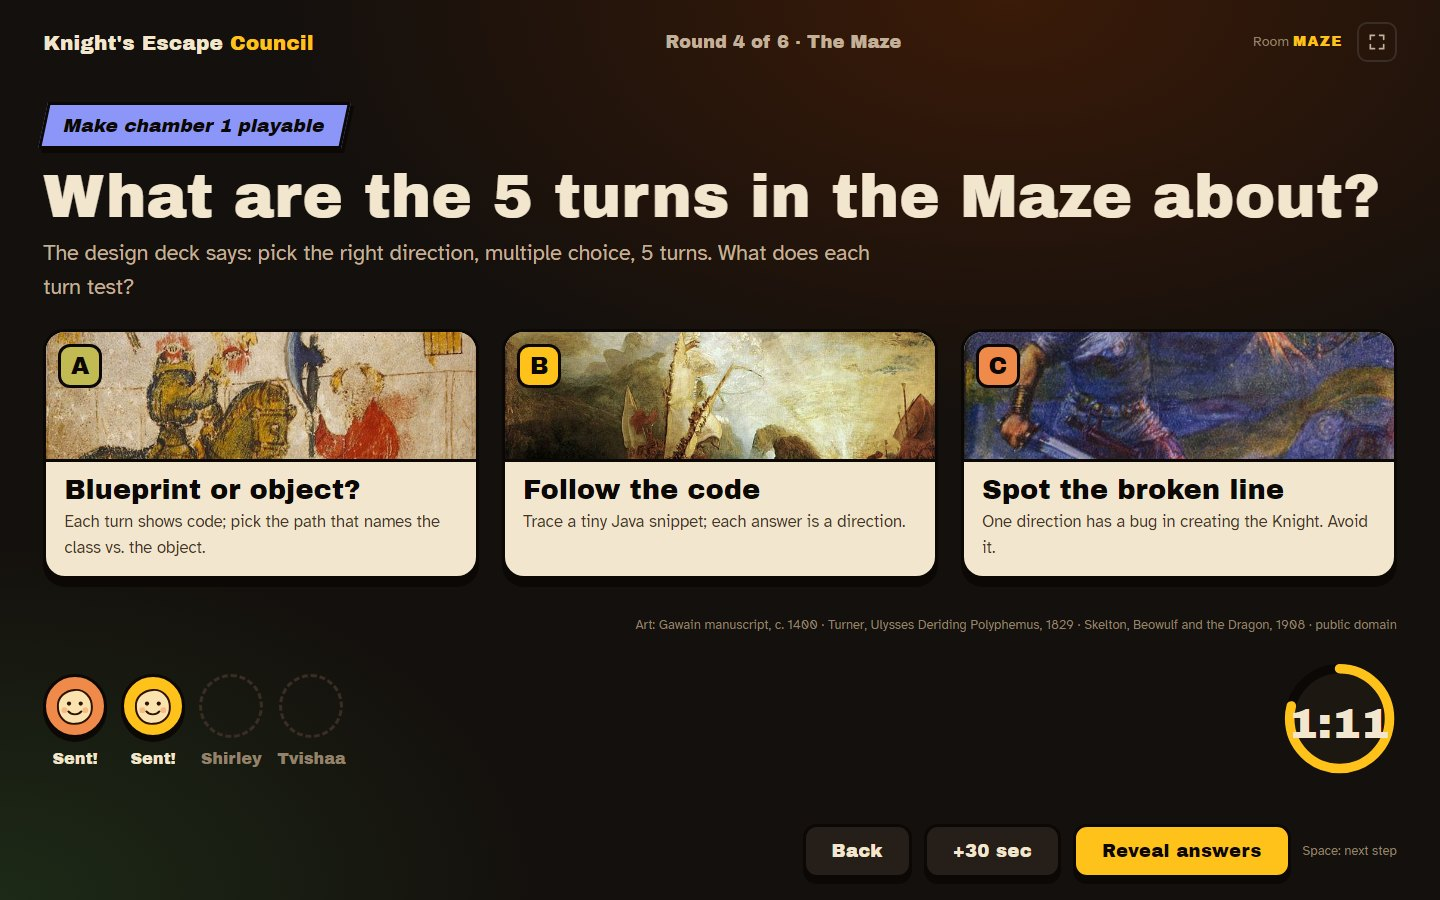
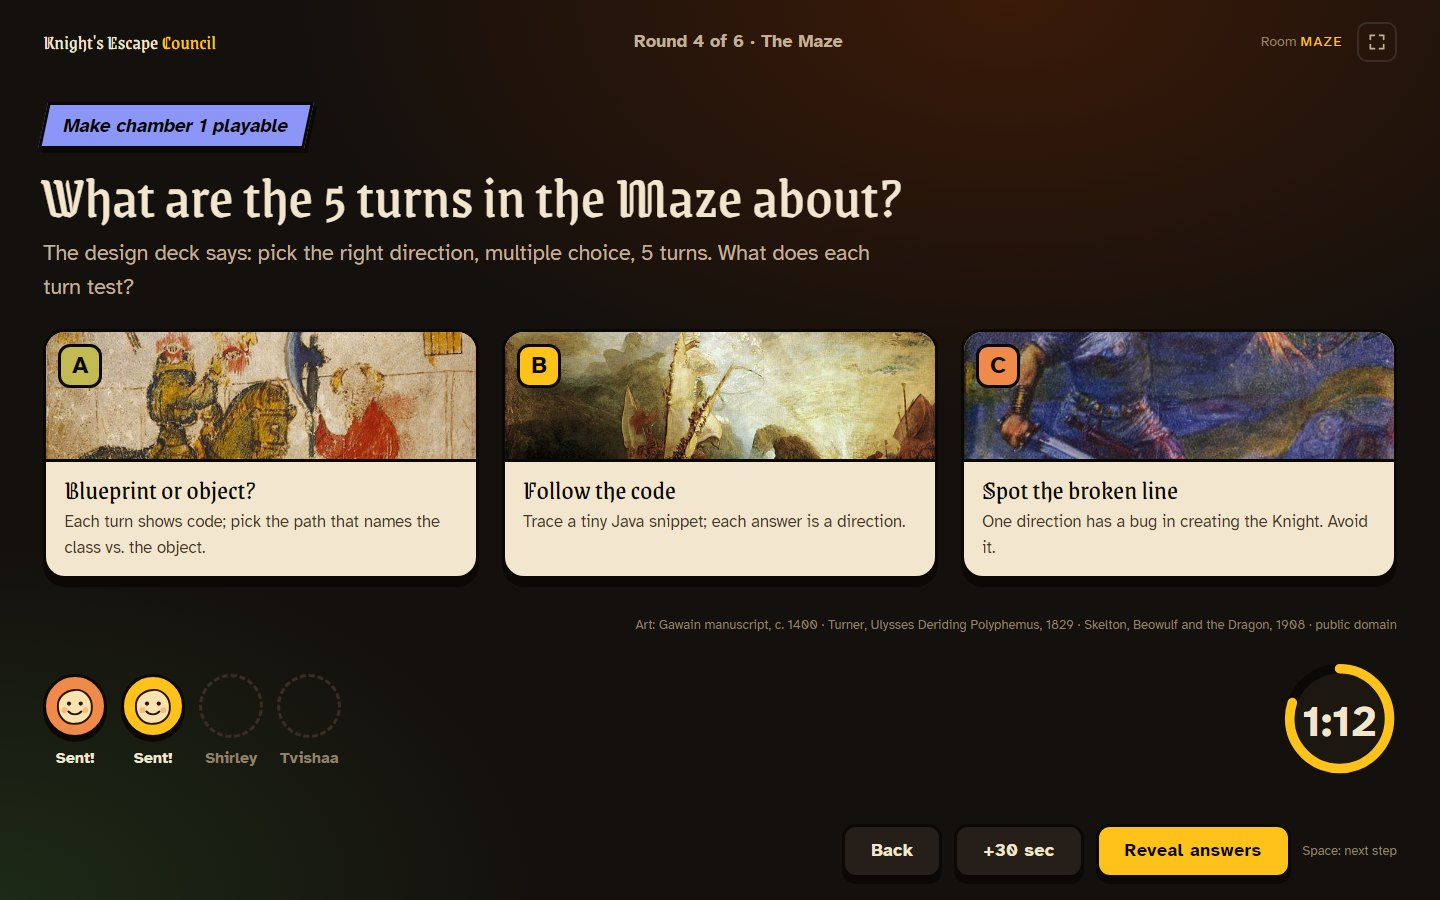
Readable titles (Grenze Gotisch), Atkinson for labels and numbers, floating Ask for help, Ask in VS Code, PIN paste

diff --git a/docs/party/index.html b/docs/party/index.html
@@ -1,4 +1,4 @@
-<!doctype html><html lang="en"><head><meta charset="utf-8"><meta name="viewport" content="width=device-width,initial-scale=1,viewport-fit=cover"><link rel="icon" type="image/png" href="../icon-party.png"><link rel="apple-touch-icon" href="../icon-party.png"><style>:root{padding-top:env(safe-area-inset-top,0px);padding-bottom:env(safe-area-inset-bottom,0px)}body{margin:0}img{max-width:100%}[hidden]{display:none!important}</style><link rel="preconnect" href="https://fonts.googleapis.com"><link rel="stylesheet" href="https://fonts.googleapis.com/css2?family=Jacquard+24&display=swap"><style>:root{--display:"Jacquard 24","Atkinson Hyperlegible",serif !important;--label:"Atkinson Hyperlegible",sans-serif !important;--label-weight:700 !important;--num:"Atkinson Hyperlegible",sans-serif !important;--num-weight:700 !important}</style><script src="../config.js"></script><script>window.P9_PARTY_DEFAULT="play"</script><script>// Runs the board outside claude.ai. The board talks to `window.claude.use(name)`;
+<!doctype html><html lang="en"><head><meta charset="utf-8"><meta name="viewport" content="width=device-width,initial-scale=1,viewport-fit=cover"><link rel="icon" type="image/png" href="../icon-party.png"><link rel="apple-touch-icon" href="../icon-party.png"><style>:root{padding-top:env(safe-area-inset-top,0px);padding-bottom:env(safe-area-inset-bottom,0px)}body{margin:0}img{max-width:100%}[hidden]{display:none!important}</style><link rel="preconnect" href="https://fonts.googleapis.com"><link rel="stylesheet" href="https://fonts.googleapis.com/css2?family=Grenze+Gotisch:wght@400;600&display=swap"><style>:root{--display:"Grenze Gotisch","Atkinson Hyperlegible",serif !important;--label:"Atkinson Hyperlegible",sans-serif !important;--label-weight:700 !important;--num:"Atkinson Hyperlegible",sans-serif !important;--num-weight:700 !important}</style><script src="../config.js"></script><script>window.P9_PARTY_DEFAULT="play"</script><script>// Runs the board outside claude.ai. The board talks to `window.claude.use(name)`;
 // this file answers those calls with Firebase (shared, no sign-in) or a demo store (one computer).
 (() => {
   const firebaseConfig = window.P9_FIREBASE;
@@ -325,6 +325,7 @@ a { color: var(--parch); text-underline-offset: 3px; }
 .helper { display: grid; gap: var(--s2); }
 /* Floating: a button bottom-right on every screen opens the helper as a panel above it */
 .helper-top { display: flex; align-items: start; justify-content: space-between; gap: var(--s2); }
+.helper-top h2 { font-family: var(--display); font-weight: 400; font-size: 23px; line-height: 1.15; letter-spacing: .035em; }
 .help-x { flex: none; width: 36px; height: 36px; display: grid; place-items: center; border: 1px solid var(--plank); border-radius: 10px; background: var(--wood-2); color: var(--parch-2); }
 .help-fab { position: fixed; right: 20px; bottom: calc(20px + env(safe-area-inset-bottom, 0px)); z-index: 44; display: inline-flex; align-items: center; gap: 8px; height: 52px; padding: 0 20px 0 16px; border-radius: 999px; border: 1px solid var(--torch-2); background: linear-gradient(180deg, #ffcd45, var(--torch)); color: var(--on-torch); font-weight: 700; font-size: 15.5px; box-shadow: var(--shadow-lift), 0 12px 28px -10px rgba(10,6,3,.7); }
 .help-fab[aria-expanded="true"] { opacity: 0; pointer-events: none; transform: scale(.96); }
@@ -1690,7 +1691,7 @@ window.P9_STARTER = {"rooms.js": "// ALL GAME CONTENT LIVES HERE. Edit this file
     for (const d of digits) await pressKey(d);
   }
   document.addEventListener("paste", (e) => {
-    if (!pending || e.target.closest("input,textarea")) return;
+    if (!pending || (e.target.closest && e.target.closest("input,textarea"))) return;
     e.preventDefault(); typePin(e.clipboardData && e.clipboardData.getData("text"));
   });
 

diff --git a/docs/index.html b/docs/index.html
@@ -1,4 +1,4 @@
-<!doctype html><html lang="en"><head><meta charset="utf-8"><meta name="viewport" content="width=device-width,initial-scale=1,viewport-fit=cover"><link rel="icon" type="image/png" href="icon-board.png"><link rel="apple-touch-icon" href="icon-board.png"><style>:root{padding-top:env(safe-area-inset-top,0px);padding-bottom:env(safe-area-inset-bottom,0px)}body{margin:0}img{max-width:100%}[hidden]{display:none!important}</style><link rel="preconnect" href="https://fonts.googleapis.com"><link rel="stylesheet" href="https://fonts.googleapis.com/css2?family=Jacquard+24&display=swap"><style>:root{--display:"Jacquard 24","Atkinson Hyperlegible",serif !important;--label:"Atkinson Hyperlegible",sans-serif !important;--label-weight:700 !important;--num:"Atkinson Hyperlegible",sans-serif !important;--num-weight:700 !important}</style><script src="config.js"></script><script>// Runs the board outside claude.ai. The board talks to `window.claude.use(name)`;
+<!doctype html><html lang="en"><head><meta charset="utf-8"><meta name="viewport" content="width=device-width,initial-scale=1,viewport-fit=cover"><link rel="icon" type="image/png" href="icon-board.png"><link rel="apple-touch-icon" href="icon-board.png"><style>:root{padding-top:env(safe-area-inset-top,0px);padding-bottom:env(safe-area-inset-bottom,0px)}body{margin:0}img{max-width:100%}[hidden]{display:none!important}</style><link rel="preconnect" href="https://fonts.googleapis.com"><link rel="stylesheet" href="https://fonts.googleapis.com/css2?family=Grenze+Gotisch:wght@400;600&display=swap"><style>:root{--display:"Grenze Gotisch","Atkinson Hyperlegible",serif !important;--label:"Atkinson Hyperlegible",sans-serif !important;--label-weight:700 !important;--num:"Atkinson Hyperlegible",sans-serif !important;--num-weight:700 !important}</style><script src="config.js"></script><script>// Runs the board outside claude.ai. The board talks to `window.claude.use(name)`;
 // this file answers those calls with Firebase (shared, no sign-in) or a demo store (one computer).
 (() => {
   const firebaseConfig = window.P9_FIREBASE;
@@ -325,6 +325,7 @@ a { color: var(--parch); text-underline-offset: 3px; }
 .helper { display: grid; gap: var(--s2); }
 /* Floating: a button bottom-right on every screen opens the helper as a panel above it */
 .helper-top { display: flex; align-items: start; justify-content: space-between; gap: var(--s2); }
+.helper-top h2 { font-family: var(--display); font-weight: 400; font-size: 23px; line-height: 1.15; letter-spacing: .035em; }
 .help-x { flex: none; width: 36px; height: 36px; display: grid; place-items: center; border: 1px solid var(--plank); border-radius: 10px; background: var(--wood-2); color: var(--parch-2); }
 .help-fab { position: fixed; right: 20px; bottom: calc(20px + env(safe-area-inset-bottom, 0px)); z-index: 44; display: inline-flex; align-items: center; gap: 8px; height: 52px; padding: 0 20px 0 16px; border-radius: 999px; border: 1px solid var(--torch-2); background: linear-gradient(180deg, #ffcd45, var(--torch)); color: var(--on-torch); font-weight: 700; font-size: 15.5px; box-shadow: var(--shadow-lift), 0 12px 28px -10px rgba(10,6,3,.7); }
 .help-fab[aria-expanded="true"] { opacity: 0; pointer-events: none; transform: scale(.96); }
@@ -1690,7 +1691,7 @@ window.P9_STARTER = {"rooms.js": "// ALL GAME CONTENT LIVES HERE. Edit this file
     for (const d of digits) await pressKey(d);
   }
   document.addEventListener("paste", (e) => {
-    if (!pending || e.target.closest("input,textarea")) return;
+    if (!pending || (e.target.closest && e.target.closest("input,textarea"))) return;
     e.preventDefault(); typePin(e.clipboardData && e.clipboardData.getData("text"));
   });
 

diff --git a/board/quest-board.src.html b/board/quest-board.src.html
@@ -240,6 +240,7 @@ a { color: var(--parch); text-underline-offset: 3px; }
 .helper { display: grid; gap: var(--s2); }
 /* Floating: a button bottom-right on every screen opens the helper as a panel above it */
 .helper-top { display: flex; align-items: start; justify-content: space-between; gap: var(--s2); }
+.helper-top h2 { font-family: var(--display); font-weight: 400; font-size: 23px; line-height: 1.15; letter-spacing: .035em; }
 .help-x { flex: none; width: 36px; height: 36px; display: grid; place-items: center; border: 1px solid var(--plank); border-radius: 10px; background: var(--wood-2); color: var(--parch-2); }
 .help-fab { position: fixed; right: 20px; bottom: calc(20px + env(safe-area-inset-bottom, 0px)); z-index: 44; display: inline-flex; align-items: center; gap: 8px; height: 52px; padding: 0 20px 0 16px; border-radius: 999px; border: 1px solid var(--torch-2); background: linear-gradient(180deg, #ffcd45, var(--torch)); color: var(--on-torch); font-weight: 700; font-size: 15.5px; box-shadow: var(--shadow-lift), 0 12px 28px -10px rgba(10,6,3,.7); }
 .help-fab[aria-expanded="true"] { opacity: 0; pointer-events: none; transform: scale(.96); }
@@ -1211,7 +1212,7 @@ window.P9_STARTER = /*@STARTER@*/{};
     for (const d of digits) await pressKey(d);
   }
   document.addEventListener("paste", (e) => {
-    if (!pending || e.target.closest("input,textarea")) return;
+    if (!pending || (e.target.closest && e.target.closest("input,textarea"))) return;
     e.preventDefault(); typePin(e.clipboardData && e.clipboardData.getData("text"));
   });
 

diff --git a/board/build_site.py b/board/build_site.py
@@ -29,9 +29,9 @@ def page(config_src, extra="", icon="icon-board.png", title="Knight's Escape"):
         "body{margin:0}img{max-width:100%}[hidden]{display:none!important}</style>"
         # Open-licensed fonts for the public site (Beanzo is personal-use only)
         '<link rel="preconnect" href="https://fonts.googleapis.com">'
-        '<link rel="stylesheet" href="https://fonts.googleapis.com/css2?family=Jacquard+24&display=swap">'
-        # Jacquard 24 is for titles only: its digits and small sizes are hard to read, so labels and numbers use bold Atkinson
-        '<style>:root{--display:"Jacquard 24","Atkinson Hyperlegible",serif !important;'
+        '<link rel="stylesheet" href="https://fonts.googleapis.com/css2?family=Grenze+Gotisch:wght@400;600&display=swap">'
+        # Grenze Gotisch is for titles only: blackletter digits and small sizes are hard to read, so labels and numbers use bold Atkinson
+        '<style>:root{--display:"Grenze Gotisch","Atkinson Hyperlegible",serif !important;'
         '--label:"Atkinson Hyperlegible",sans-serif !important;--label-weight:700 !important;'
         '--num:"Atkinson Hyperlegible",sans-serif !important;--num-weight:700 !important}</style>'
         f'<script src="{config_src}"></script>{extra}<script>{shim}</script>'

diff --git a/AGENTS.md b/AGENTS.md
@@ -12,7 +12,7 @@ Team: Leslie, Sanjana (build), Shirley, Tvishaa (design). Mentor: Katrina.
   - Edit `quest-board.src.html`, then run `python board/build.py` (it inlines `fonts/` into `quest-board.html`). Never hand-edit `quest-board.html`.
   - It is a page fragment: no `<html>/<head>/<body>` tags (the host adds them). Keep `<title>` and `<style>` at the top.
   - Single dark theme ("lantern-lit dungeon"). Colors only via the `:root` tokens.
-  - Public-site font: Beanzo is personal-use only, so `build_site.py` swaps in an open (OFL) Google Font for `--display` on GitHub Pages (now Archivo Black). Change it there, not in the board source. Font comparison: `board/fonts/specimen.jpg`.
+  - Public-site font: Beanzo is personal-use only, so `build_site.py` swaps in an open (OFL) Google Font for `--display` on GitHub Pages (now Grenze Gotisch, picked for legibility at 23px; Jacquard 24 was too hard to read). Labels and numbers there use bold Atkinson via `--label` / `--num`. Change it there, not in the board source. Font comparison: `board/fonts/specimen.jpg`.
   - Fonts: Beanzo (the team's font) for screen titles and big numbers only. All readable text (body, labels, buttons, small text) is Atkinson Hyperlegible (Google Fonts), fallback Times New Roman. Never Newstan/Road Hunter for small text: they're display fonts and unreadable small. No Inter/Geist.
   - Layout: app shell with screens My quest (`today`), Council, Team tasks, Game plan, plus Live (`mentor`), shown only when `user.isOwner()` is true. Personal links `#leslie`, `#sanjana`, `#shirley`, `#tvishaa`, `#katrina` pick the person and their Council seat. Don't add tabs; put new things inside an existing screen.
   - QA: `node board/checks/browser-qa.cjs` (needs Chrome). `council-tests.cjs` is a module the runner calls; running it alone tests nothing.
